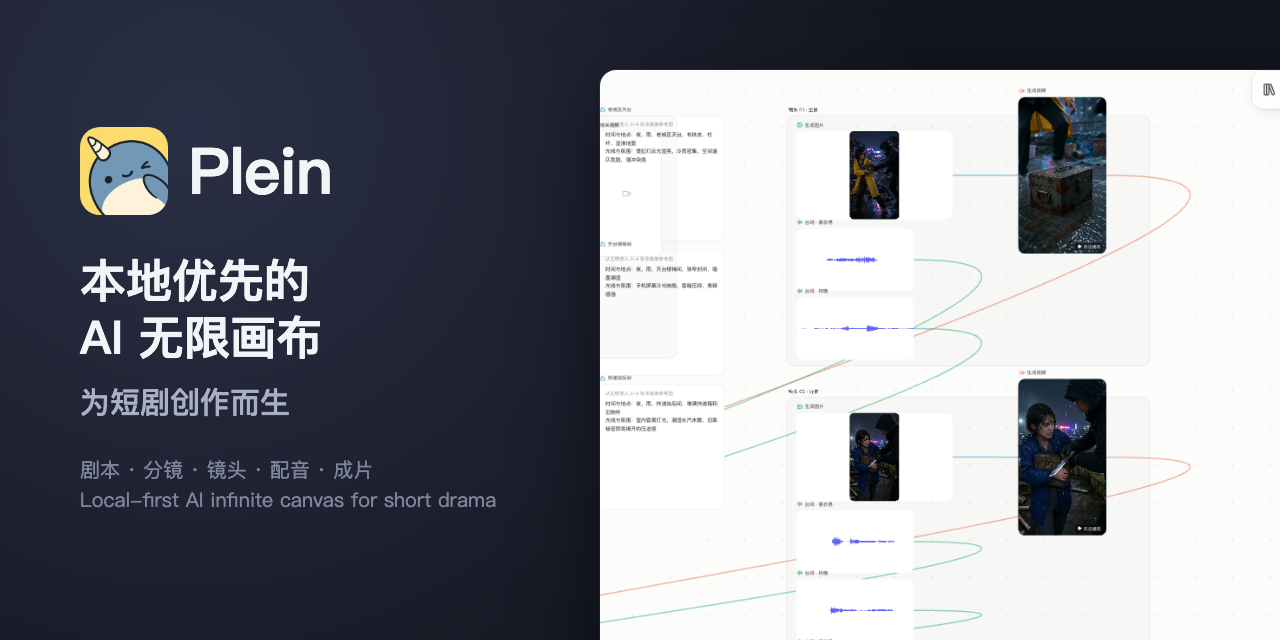
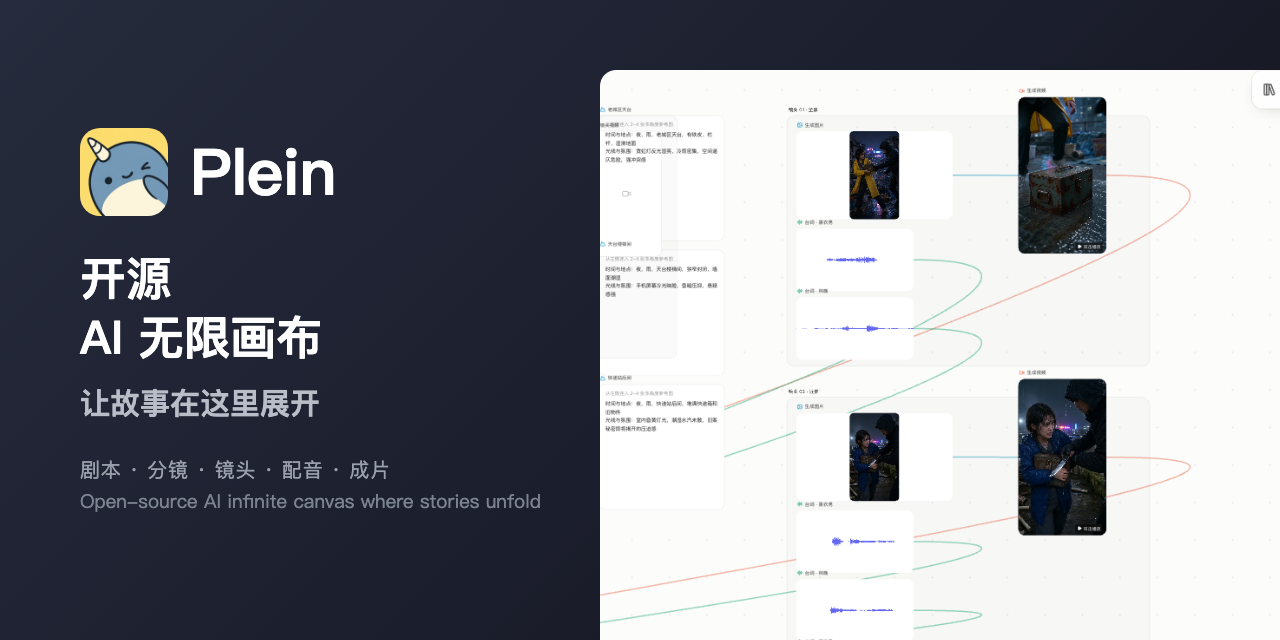
✨ feat(site): 首屏与分享图统一为新品牌文案
- 首屏标题改为「让故事在这里展开」，介绍与结构化数据同步更新
- 重做分享图，替换旧 slogan
- llms.txt 摘要改用新文案

diff --git a/site/en/index.html b/site/en/index.html
@@ -36,7 +36,7 @@
     <meta property="og:image:height" content="640" />
     <meta
       property="og:image:alt"
-      content="The Plein canvas: script, character, shots and voiceover wired into a vertical short drama"
+      content="Plein, the open-source AI infinite canvas where stories unfold: script, storyboard, shots and voiceover wired into a vertical short drama"
     />
     <meta name="twitter:card" content="summary_large_image" />
     <meta
@@ -78,7 +78,7 @@
             "@id": "https://plein.ikuyu.com/en/#app",
             "name": "Plein",
             "alternateName": ["Plein AI short drama canvas", "Plein AI short drama maker"],
-            "description": "Plein is an open-source AI infinite canvas for making short dramas. Idea, script, characters, storyboard, shots, video, voiceover and the final cut are wired nodes on one infinite canvas, and every step can be reviewed, edited and re-run on its own.",
+            "description": "Plein is an open-source AI infinite canvas where stories unfold, built for making short dramas. Idea, script, characters, storyboard, shots, video, voiceover and the final cut are wired nodes on one infinite canvas, and every step can be reviewed, edited and re-run on its own.",
             "url": "https://plein.ikuyu.com/en/",
             "image": "https://plein.ikuyu.com/og.png",
             "screenshot": "https://plein.ikuyu.com/og.png",
@@ -271,11 +271,12 @@
       <main>
         <div class="hero">
           <div>
-            <h1><span>Lay out a whole</span><span>short drama on</span><span>one canvas</span></h1>
+            <h1><span>Where stories</span><span>unfold</span></h1>
             <p class="lead">
-              Plein is an open-source AI infinite canvas for short drama. Script, characters,
-              storyboard, shots, voiceover and the final cut are wired-up nodes on one canvas. Every
-              step stays visible and editable, and if one shot is off you redo just that shot.
+              Plein is an open-source AI infinite canvas. Start from a single idea, lay out the
+              script, characters, storyboard, shots and voiceover on the canvas, and turn them into
+              a short drama together with an AI agent. Every step stays visible and editable, and if
+              one shot is off you redo just that shot.
             </p>
             <div class="actions">
               <a class="btn btn-primary" href="https://github.com/hoobnn/plein/releases/latest"

diff --git a/site/index.html b/site/index.html
@@ -33,7 +33,7 @@
     <meta property="og:image:height" content="640" />
     <meta
       property="og:image:alt"
-      content="Plein 画布：剧本、角色、镜头和配音连线汇成一部竖屏短剧"
+      content="Plein：开源 AI 无限画布，让故事在这里展开。剧本、分镜、镜头和配音连线汇成一部竖屏短剧"
     />
     <meta name="twitter:card" content="summary_large_image" />
     <meta name="twitter:title" content="Plein — 开源 AI 无限画布，让故事在这里展开" />
@@ -72,7 +72,7 @@
             "@id": "https://plein.ikuyu.com/#app",
             "name": "Plein",
             "alternateName": ["Plein AI 短剧画布", "Plein AI 短剧创作工具"],
-            "description": "Plein 是开源的 AI 短剧无限画布：创意、剧本、角色、分镜、镜头、视频、配音到成片都是一张无限画布上连好线的节点，每一步可看可改、可单独返工。",
+            "description": "Plein 是开源的 AI 无限画布，让故事在这里展开：创意、剧本、角色、分镜、镜头、视频、配音到成片都是一张无限画布上连好线的节点，每一步可看可改、可单独返工。",
             "url": "https://plein.ikuyu.com/",
             "image": "https://plein.ikuyu.com/og.png",
             "screenshot": "https://plein.ikuyu.com/og.png",
@@ -265,10 +265,11 @@
       <main>
         <div class="hero">
           <div>
-            <h1><span>把一部短剧</span><span>摊在一张画布上</span></h1>
+            <h1><span>让故事</span><span>在这里展开</span></h1>
             <p class="lead">
               Plein 是开源的 AI
-              无限画布，为短剧创作而生。剧本、角色、分镜、镜头、配音和成片都是画布上连好线的节点，每一步都看得见、改得动，哪个镜头不满意就只重做那一个。
+              无限画布。从一句创意开始，剧本、角色、分镜、镜头和配音在画布上铺开、连成线，和 AI
+              Agent 一起把它做成一部短剧。每一步都看得见、改得动，哪个镜头不满意就只重做那一个。
             </p>
             <div class="actions">
               <a class="btn btn-primary" href="https://github.com/hoobnn/plein/releases/latest"
